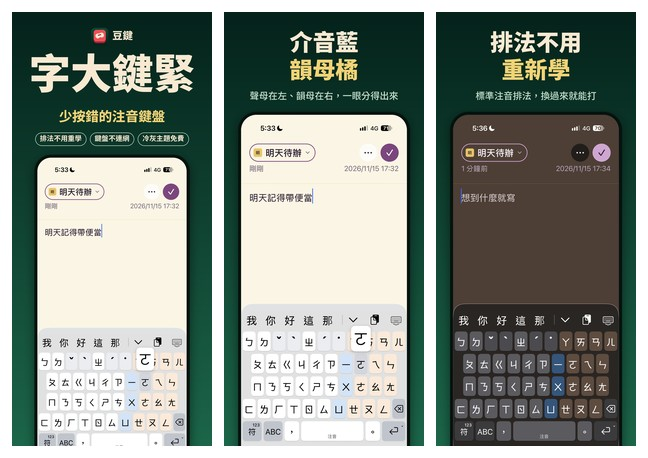
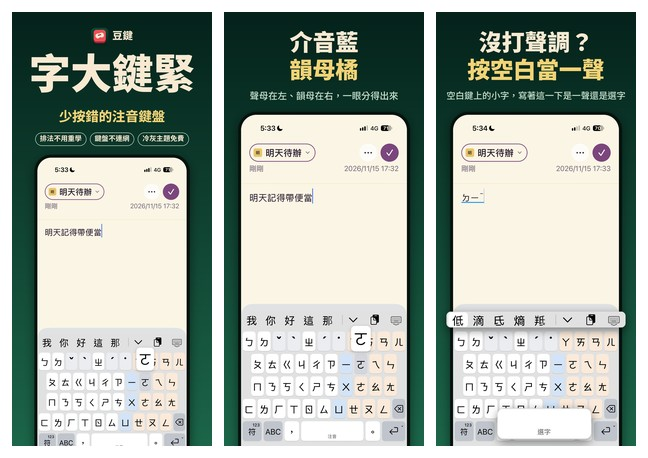
[文件] 上架圖：第 3 張換成空白鍵當一聲（候選列＋空白鍵放大）；深色那張改回 1.0 的「手機切深色／鍵盤跟著切」移到第 5 張；第 2 張預留補拍 2.PNG [skip ci]

Changed region(s): [[0.679, 0.0611, 0.9877, 0.9782]]

diff --git a/.aso/截圖/make_screenshots.py b/.aso/截圖/make_screenshots.py
@@ -32,12 +32,17 @@ SHADOW = (0, 14, 8)
 SHOTS = [
     dict(name="01-字大", raw="1.PNG", hero=True, title=["字大鍵緊"], sub="少按錯的注音鍵盤",
          pills=["排法不用重學", "鍵盤不連網", "冷灰主題免費"]),
-    dict(name="02-分色", raw="1.PNG", title=["介音藍", "韻母橘"], sub="聲母在左、韻母在右，一眼分得出來"),
-    dict(name="03-排法", raw="3.PNG", title=["排法不用", "重新學"], sub="標準注音排法，換過來就能打"),
+    # 第 2 張：多米補拍 2.PNG（打「ㄐㄧㄚ」不選字、沒有泡泡）之前，先用 1.PNG
+    dict(name="02-分色", raw="2.PNG" if (RAW / "2.PNG").exists() else "1.PNG",
+         title=["介音藍", "韻母橘"], sub="聲母在左、韻母在右，一眼分得出來"),
+    # 2026-11-15 多米：空白鍵也要放大
+    dict(name="03-一聲", raw="5.PNG", title=["沒打聲調？", "按空白當一聲"], sub="空白鍵上的小字，寫著這一下是一聲還是選字",
+         pops=[(0, 1438, 1206, 1546, 1.08, 30), (436, 2228, 892, 2380, 1.5, 36)]),
     dict(name="04-隱私", raw="4.PNG", title=["打的字", "只留在手機上"], sub="鍵盤不連網，iCloud 同步預設是關的",
          pops=[(62, 1338, 1146, 1488, 1.08, 50)]),
-    dict(name="05-一聲", raw="5.PNG", title=["沒打聲調？", "按空白當一聲"], sub="空白鍵上的小字，寫著這一下是一聲還是選字",
-         pops=[(0, 1438, 1206, 1546, 1.08, 30)]),
+    # 2026-11-15 多米：深色畫面配「排法不用重新學」很怪。大標換回 1.0 多米原本的「手機切深色／鍵盤跟著切」，
+    # 「排法不用重學」留在第 1 張的小標。描述句照 README「深色模式跟著系統，也跟著輸入框」
+    dict(name="05-深色", raw="3.PNG", title=["手機切深色", "鍵盤跟著切"], sub="深色模式跟著系統，也跟著輸入框"),
     dict(name="06-字典", raw="6.PNG", title=["改選過的詞", "下次排前面"], sub="鍵盤學到的詞，打開 App 就看得到"),
     dict(name="07-剪貼簿", raw="7.PNG", title=["複製過的字", "點一下就貼"], sub="常用的可以固定、加標籤"),
     dict(name="08-主題", raw="8.PNG", title=["8 款豆子主題", "冷灰免費"], sub="換顏色、字體和圓角，鍵位不變"),

diff --git a/.aso/05-素材文案.md b/.aso/05-素材文案.md
@@ -9,11 +9,11 @@
 
 | 格 | 要拍的畫面（全部用 1.1 的 build） | 說明文字 | 回答什麼 | 給誰 |
 |---|---|---|---|---|
-| 1 | 備忘錄裡打一句話，注音鍵面（冷灰、淺色），候選列有字，**按著一顆鍵**讓放大泡泡跳出來 | 主視覺：豆鍵 icon＋「字大鍵緊」＋「少按錯的注音鍵盤」＋三顆小標（排法不用重學、鍵盤不連網、冷灰主題免費） | 這是什麼（跟名稱講同一件事） | 所有人 |
-| 2 | 同第 1 張的原圖，合成時只放大鍵盤那一塊 | 介音藍／韻母橘＋「聲母在左、韻母在右，一眼分得出來」 | 怎麼運作 | 所有人 |
-| 3 | 同一句話，深色模式 | 排法不用／重新學＋「標準注音排法，換過來就能打」 | 為什麼要裝（03 空位） | 所有人 |
-| 4 | 豆鍵 App →設定→資料那一段（iCloud 同步開關是關的） | 打的字／只留在手機上＋「鍵盤不連網，iCloud 同步預設是關的」（iCloud 那列稍微放大） | 完全取用、隱私 | 往下滑的人 |
-| 5 | 打「ㄉㄧ」按一下空白，候選只剩一聲字、空白鍵小字是「選字」 | 沒打聲調？／按空白當一聲＋「空白鍵上的小字，寫著這一下是一聲還是選字」（候選列稍微放大） | 選字準不準、跟別人哪裡不同 | 往下滑的人 |
+| 1 | 備忘錄裡打一句話，注音鍵面（冷灰、淺色），候選列有字，**按著一顆鍵**讓放大泡泡跳出來（原圖 1.PNG） | 主視覺：豆鍵 icon＋「字大鍵緊」＋「少按錯的注音鍵盤」＋三顆小標（排法不用重學、鍵盤不連網、冷灰主題免費） | 這是什麼（跟名稱講同一件事） | 所有人 |
+| 2 | **待補拍 2.PNG**：同一則備忘錄、冷灰淺色，打「ㄐㄧㄚ」不選字，手指放開再截（不要泡泡蓋住鍵，上面顯示ㄐㄧㄚ、候選有家、加）。沒補拍前先用 1.PNG | 介音藍／韻母橘＋「聲母在左、韻母在右，一眼分得出來」 | 怎麼運作 | 所有人 |
+| 3 | 打「ㄉㄧ」按一下空白，候選只剩一聲字、空白鍵小字是「選字」（原圖 5.PNG） | 沒打聲調？／按空白當一聲＋「空白鍵上的小字，寫著這一下是一聲還是選字」（候選列、空白鍵放大） | 為什麼要裝（別人沒有） | 所有人 |
+| 4 | 豆鍵 App →設定→資料那一段（iCloud 同步開關是關的）（原圖 4.PNG） | 打的字／只留在手機上＋「鍵盤不連網，iCloud 同步預設是關的」（iCloud 那列稍微放大） | 完全取用、隱私 | 往下滑的人 |
+| 5 | 同一則備忘錄，深色模式（原圖 3.PNG） | 手機切深色／鍵盤跟著切（1.0 多米原本的說明）＋「深色模式跟著系統，也跟著輸入框」 | 晚上用刺不刺眼 | 往下滑的人 |
 | 6 | 豆鍵 App 字典分頁，有幾個「自動」的詞 | 改選過的詞／下次排前面＋「鍵盤學到的詞，打開 App 就看得到」 | 選字會不會越用越順 | 往下滑的人 |
 | 7 | 鍵盤的剪貼簿面板，兩欄卡片，有一兩張固定的 | 複製過的字／點一下就貼＋「常用的可以固定、加標籤」 | 留下來的理由 | 往下滑的人 |
 | 8 | 豆鍵 App 主題分頁 | 8 款豆子主題／冷灰免費＋「換顏色、字體和圓角，鍵位不變」 | 免費能用什麼 | 往下滑的人 |
